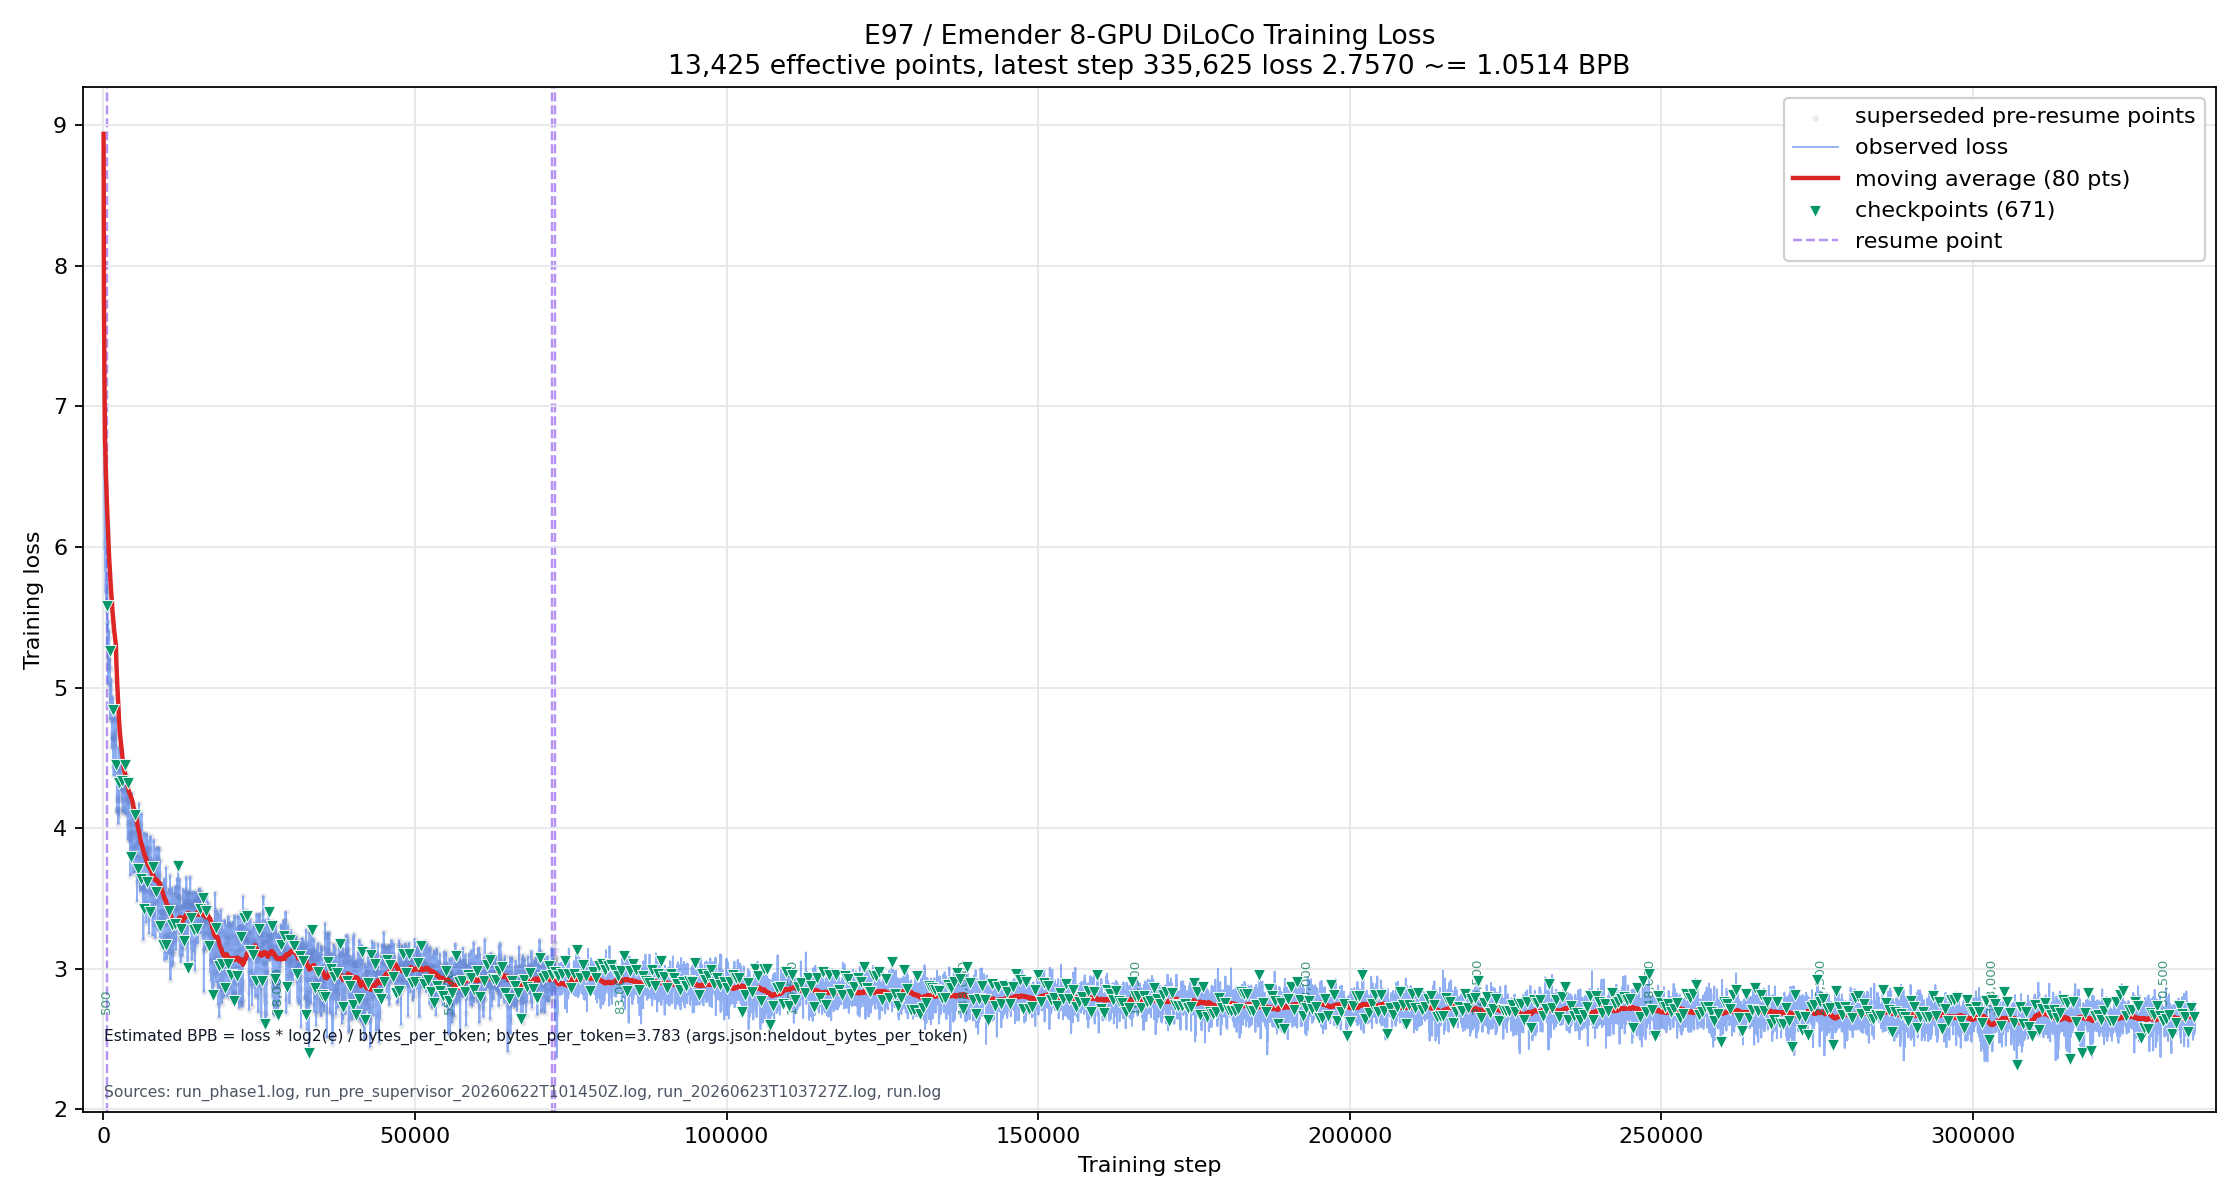
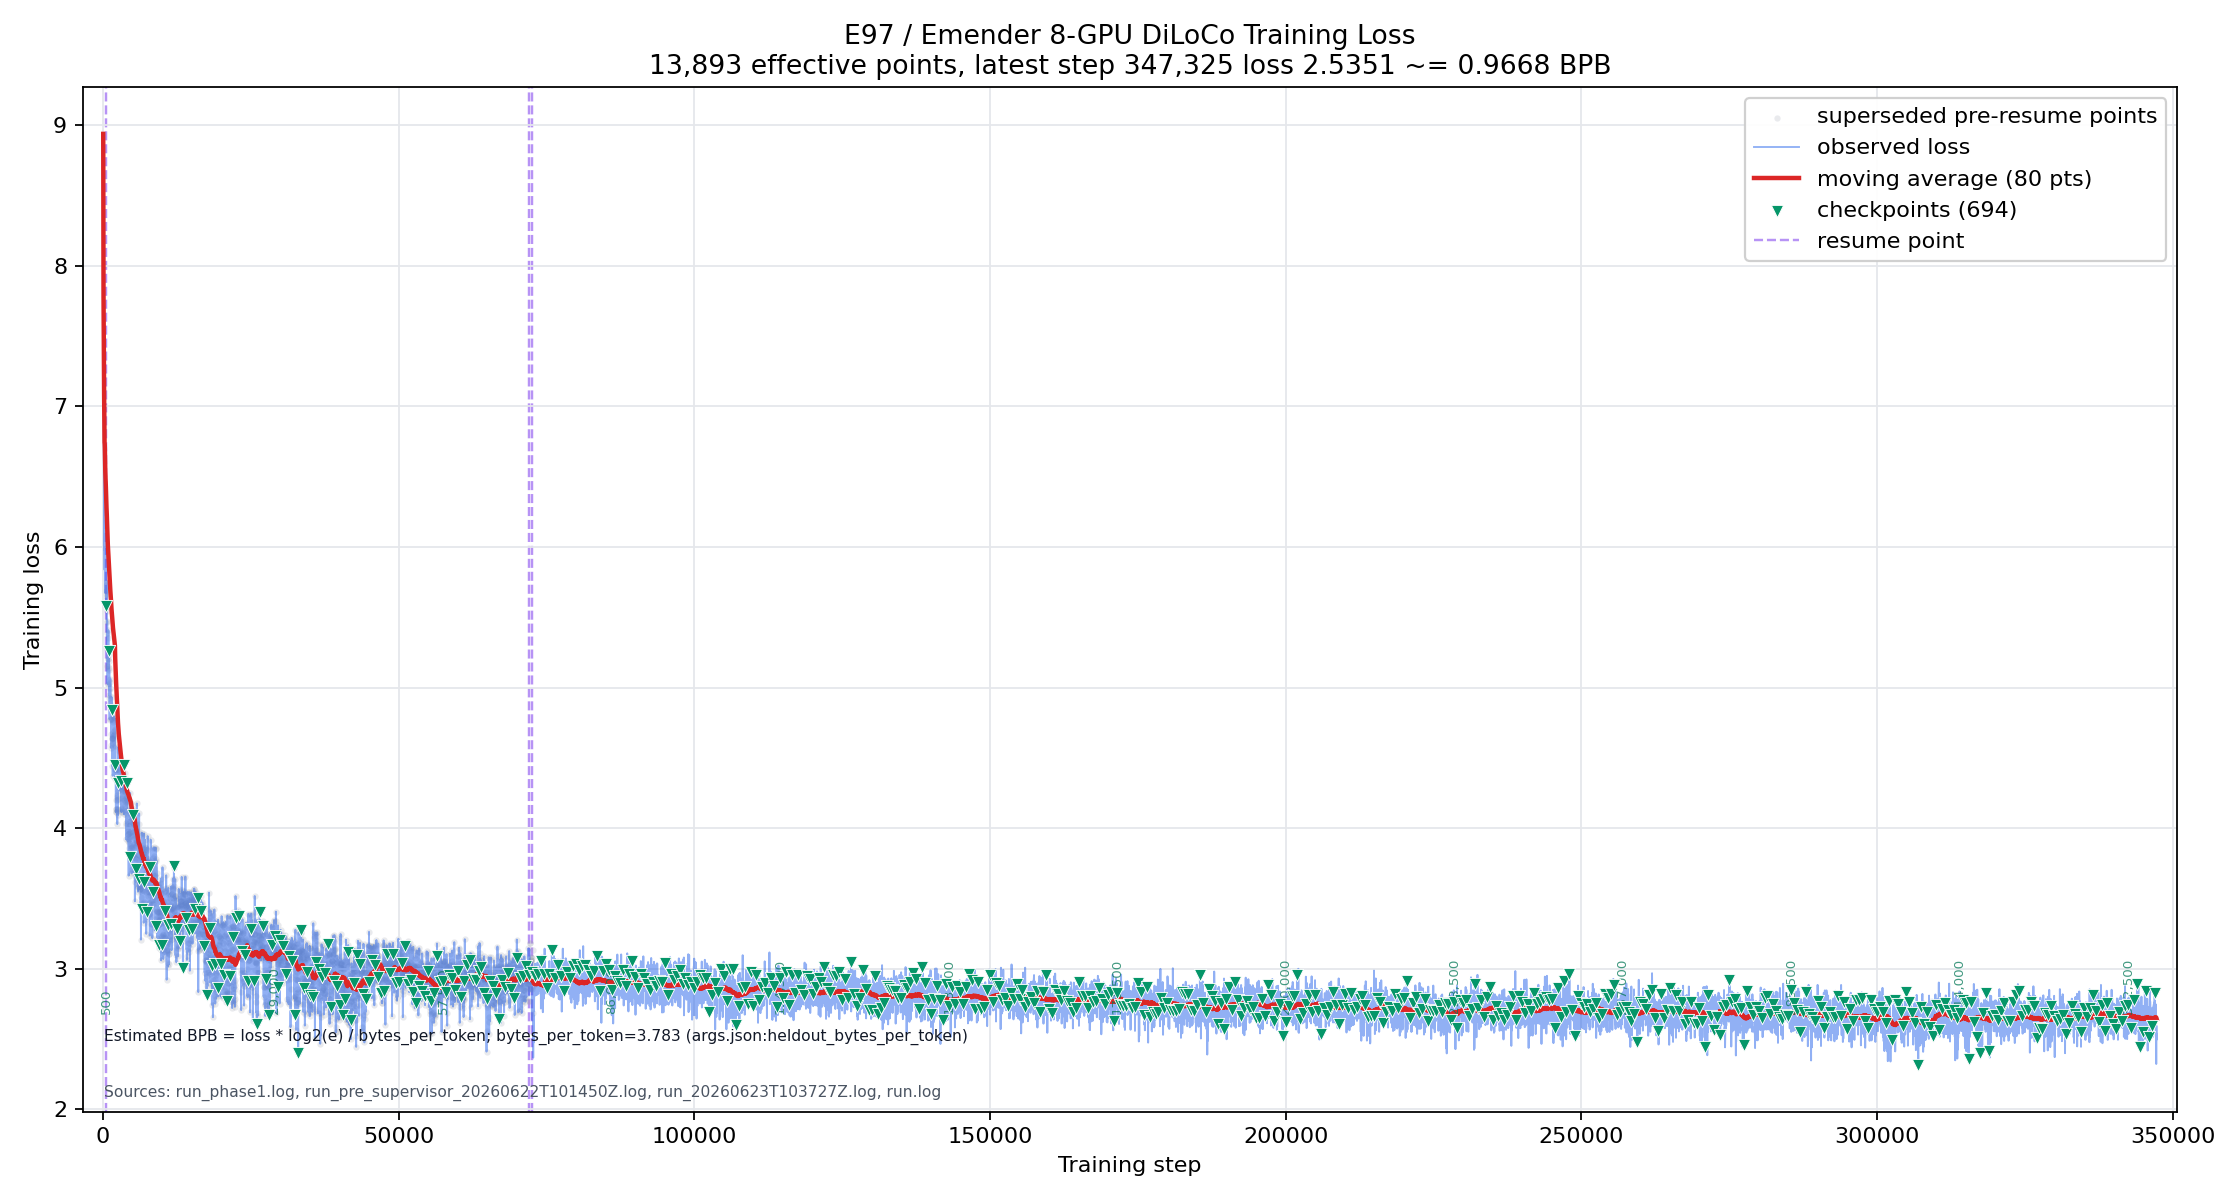
feat: update-e97-loss-curve-bpb-20260626T172346 (agent-2112)
Squash-merged from worktree branch wg/agent-2112/update-e97-loss-curve-bpb-20260626T172346

diff --git a/scripts/plot_e97_diloco_loss.py b/scripts/plot_e97_diloco_loss.py
@@ -336,8 +336,12 @@ def main() -> None:
         bytes_per_token_source,
     )
     latest = effective_points[-1]
+    losses = [point.loss for point in effective_points]
+    avg_window = min(80, max(5, len(effective_points) // 40))
+    smoothed_loss = moving_average(losses, avg_window)[-1]
     bpb_per_nat = math.log2(math.e) / bytes_per_token
     latest_bpb = latest.loss * bpb_per_nat
+    smoothed_bpb = smoothed_loss * bpb_per_nat
     print(f"output={args.output}")
     print(f"sources={','.join(str(path) for path in existing_logs)}")
     print(f"raw_points={len(points)}")
@@ -347,10 +351,13 @@ def main() -> None:
     print(f"checkpoint_steps={','.join(str(step) for step in sorted({checkpoint.step for checkpoint in checkpoints})) or 'none'}")
     print(f"latest_step={latest.step}")
     print(f"latest_loss={latest.loss:.4f}")
+    print(f"plot_smoothed_window={avg_window}")
+    print(f"plot_smoothed_loss={smoothed_loss:.6f}")
     print(f"bytes_per_token={bytes_per_token:.6f}")
     print(f"bytes_per_token_source={bytes_per_token_source}")
     print(f"bpb_per_nat={bpb_per_nat:.12f}")
     print(f"estimated_bpb={latest_bpb:.6f}")
+    print(f"plot_smoothed_bpb={smoothed_bpb:.6f}")
     print(f"latest_time={latest.timestamp.isoformat()}")
 
 

diff --git a/docs/E97_LOSS_CURVE_BPB_REFRESH_20260626_1726.md b/docs/E97_LOSS_CURVE_BPB_REFRESH_20260626_1726.md
@@ -1,0 +1,57 @@
+# E97 Loss Curve BPB Refresh - 2026-06-26 17:26 UTC
+
+Scope: refreshed the hosted E97/Emender 8-GPU DiLoCo loss curve from the latest available logs using the existing plotting workflow. I did not stop, restart, modify, delete, rename, or launch training/eval.
+
+## Inputs
+
+- Plot script: `scripts/plot_e97_diloco_loss.py`
+- Run root: `/mnt/nvme1n1/erikg/diloco_8gpu/emender`
+- Log sources:
+  - `/mnt/nvme1n1/erikg/diloco_8gpu/emender/run_phase1.log`
+  - `/mnt/nvme1n1/erikg/diloco_8gpu/emender/run_pre_supervisor_20260622T101450Z.log`
+  - `/mnt/nvme1n1/erikg/diloco_8gpu/emender/run_20260623T103727Z.log`
+  - `/mnt/nvme1n1/erikg/diloco_8gpu/emender/run.log`
+
+## Plotted Snapshot
+
+- Raw parsed points: `16,808`
+- Effective plotted points after resume deduplication: `13,893`
+- Superseded pre-resume points: `2,915`
+- Resume steps: `500`, `72000`, `72500`
+- Latest plotted step: `347325`
+- Latest raw loss: `2.5351`
+- Latest plotted timestamp: `2026-06-26T17:26:07+00:00`
+- Plot smoothing: moving average over `80` points
+- Plot-smoothed loss: `2.640845`
+
+## BPB
+
+Measured tokenizer conversion:
+
+```text
+bytes_per_token=3.783
+```
+
+Source: `/mnt/nvme1n1/erikg/diloco_8gpu/emender/runs/levelE97_100m_20260623_103742/args.json:heldout_bytes_per_token`
+
+Formula:
+
+```text
+BPB = loss * log2(e) / bytes_per_token
+```
+
+For `bytes_per_token=3.783`, `log2(e) / bytes_per_token = 0.381362685934`.
+
+- Latest raw estimated BPB: `0.966793`
+- Plot-smoothed estimated BPB: `1.007120`
+
+## Output And Remote Verification
+
+- Local PNG: `docs/experiments/figures/e97_diloco_loss_curve_20260623.png`
[1 lines of base64/hex data omitted]
+- Remote target: `[email redacted]:www/emender/e97_diloco_loss_curve_20260623.png`
+- Public URL: `http://hypervolu.me/~erik/emender/e97_diloco_loss_curve_20260623.png`
+- Remote HTTP status: `200 OK`
+- Remote content type: `image/png`
[1 lines of base64/hex data omitted]
+- Remote hash matched local: yes